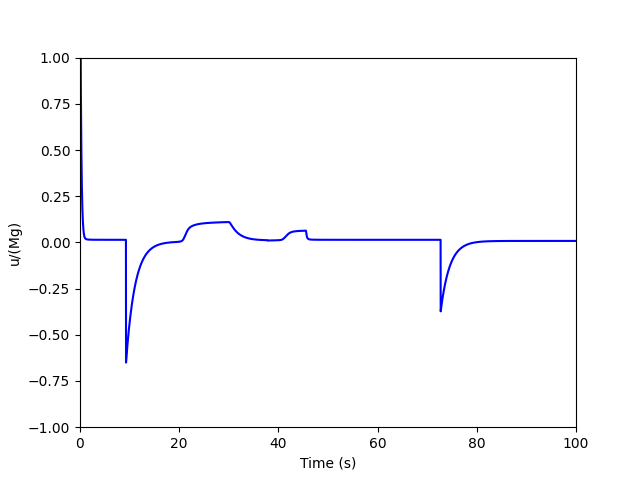
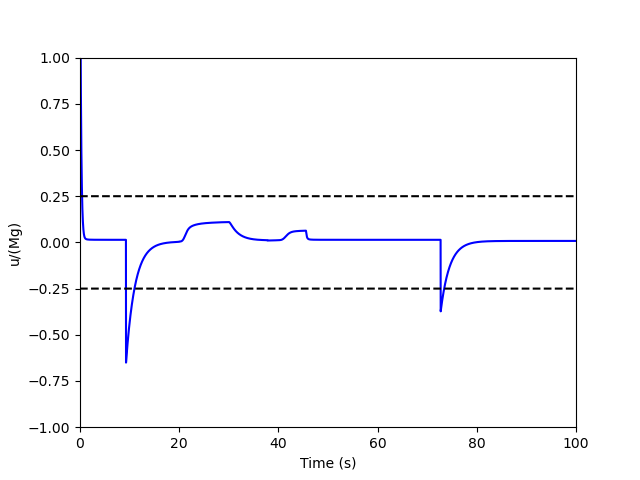
u bounds + tqdm

diff --git a/ACC.py b/ACC.py
@@ -1,6 +1,7 @@
 import cvxpy as cp
 import numpy as np
 import matplotlib.pyplot as plt
+from tqdm import tqdm
 
 # Parameters
 M = 1650
@@ -85,7 +86,7 @@ def acceleration_of_leader(t):
     return a
 
 u_function=[]
-for t in range(iteration_num-1):
+for t in tqdm(range(iteration_num-1)):
 # Cost matrix
     H_acc = 2*np.array([[1/M**2, 0],
                         [0, p_sc]])
@@ -155,5 +156,8 @@ plt.figure()
 plt.plot(T[0:iteration_num-1],np.array(u_function)/(M*10),color="blue")
 plt.xlabel("Time (s)")
 plt.ylabel("u/(Mg)")
+u_upper, u_lower = 0.25, -0.25
+plt.plot(T, 0*T + u_upper, color="black",linestyle="--")
+plt.plot(T, 0*T + u_lower, color="black",linestyle="--")
 plt.axis([0,100,-1,1])
 plt.show()
